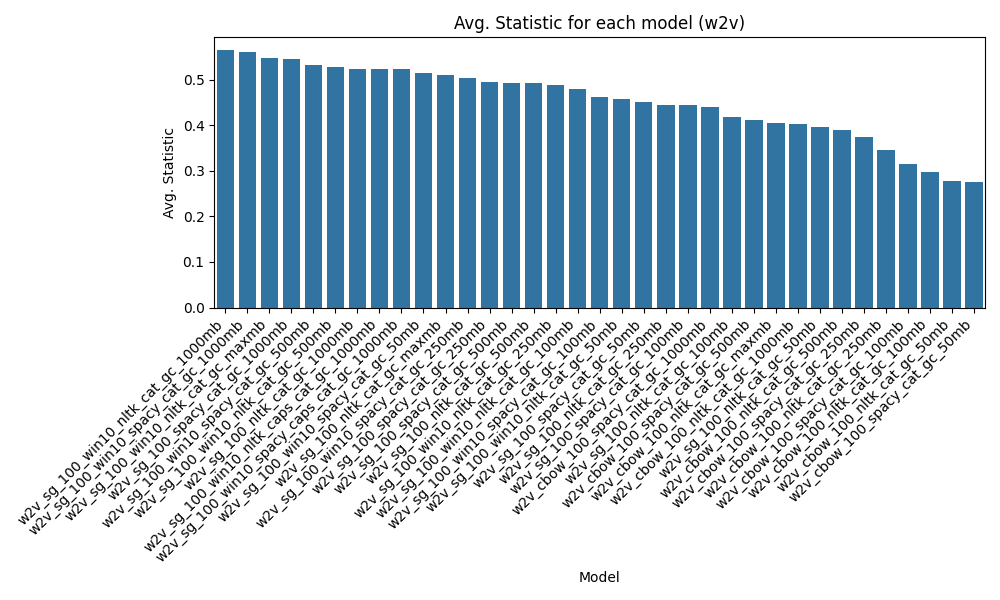
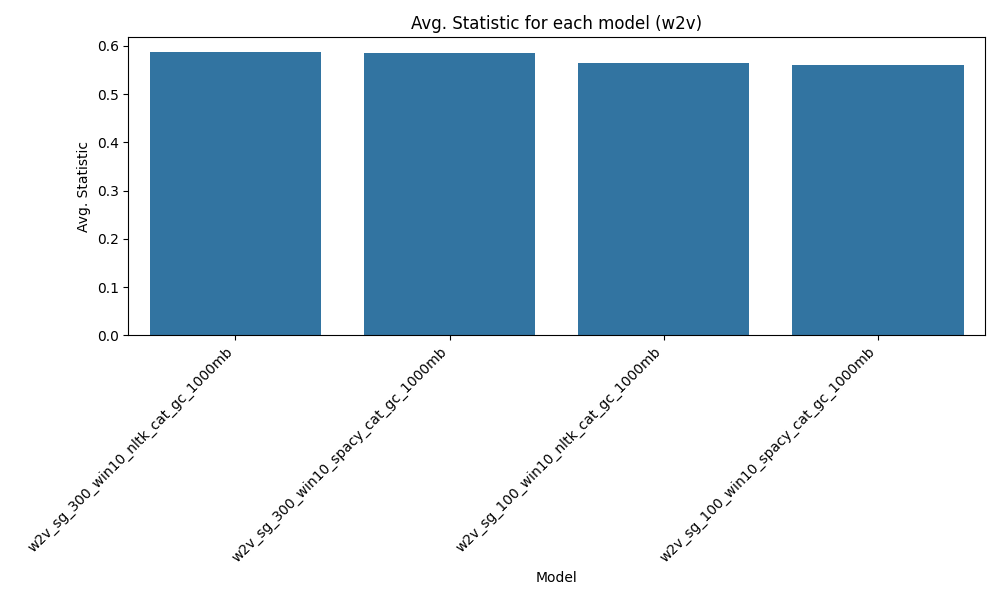
ADD updated files and minor changes to part1

diff --git a/word_vectorizer.py b/word_vectorizer.py
@@ -420,20 +420,24 @@ class WordVectorizer:
 		tsne = TSNE(n_components=2, random_state=42, max_iter=n_iter, perplexity=perplexity)
 		word_vectors_2d = tsne.fit_transform(word_vectors)
 
+		full_model_name = os.path.basename(self.model_path)
+		full_model_name = full_model_name.split('.')[0]
+
 		# Plot the results
-		plt.figure(figsize=(12, 12))
+		plt.figure(figsize=(15, 15))
 		sns.set_context('notebook', font_scale=1.2)
 		sns.scatterplot(
 			x=word_vectors_2d[:,0], 
 			y=word_vectors_2d[:,1], 
 			hue=word_labels, 
 			legend=False)
+		plt.title(f't-SNE projection of {num_words} words (perplexity={perplexity})\nModel: {full_model_name}')
+		plt.tight_layout()
+
 		for i, word in enumerate(word_labels):
 			plt.annotate(word, (word_vectors_2d[i,0], word_vectors_2d[i,1]))
 
 		if save:
-			full_model_name = os.path.basename(self.model_path)
-			full_model_name = full_model_name.split('.')[0]
 			plt.savefig(f'./results/plots/tsne_{full_model_name}.png')
 
 		

diff --git a/evaluate_models.py b/evaluate_models.py
@@ -326,11 +326,11 @@ def generate_vectorizer_barplot(results_df: pd.DataFrame, metric: str, compare: 
 
 if __name__ == '__main__':
 	# Evaluate the models
-	results_df = evaluate_models()
+	results_df = evaluate_models(save=True)
 
 	hide_win10 = False
-	hide_caps = False
-	hide_cbow = False
+	hide_caps = True
+	hide_cbow = True
 
 	# Filter the results by the negative keywords
 	if hide_win10:
@@ -339,6 +339,12 @@ if __name__ == '__main__':
 		results_df = filter_results(results_df, neg_keyword='caps')
 	if hide_cbow:
 		results_df = filter_results(results_df, neg_keyword='cbow')
+
+	results_df = filter_results(results_df, pos_keyword='1000mb')
+	results_df = filter_results(results_df, pos_keyword='win10')
+
+	# Save the filtered results to a CSV file
+	results_df.to_csv('./results/evaluation_results_filtered.csv', index=False)
 
 	# Empty the 'plots' directory before generating the plots
 	for file in os.listdir('./results/plots/'):
